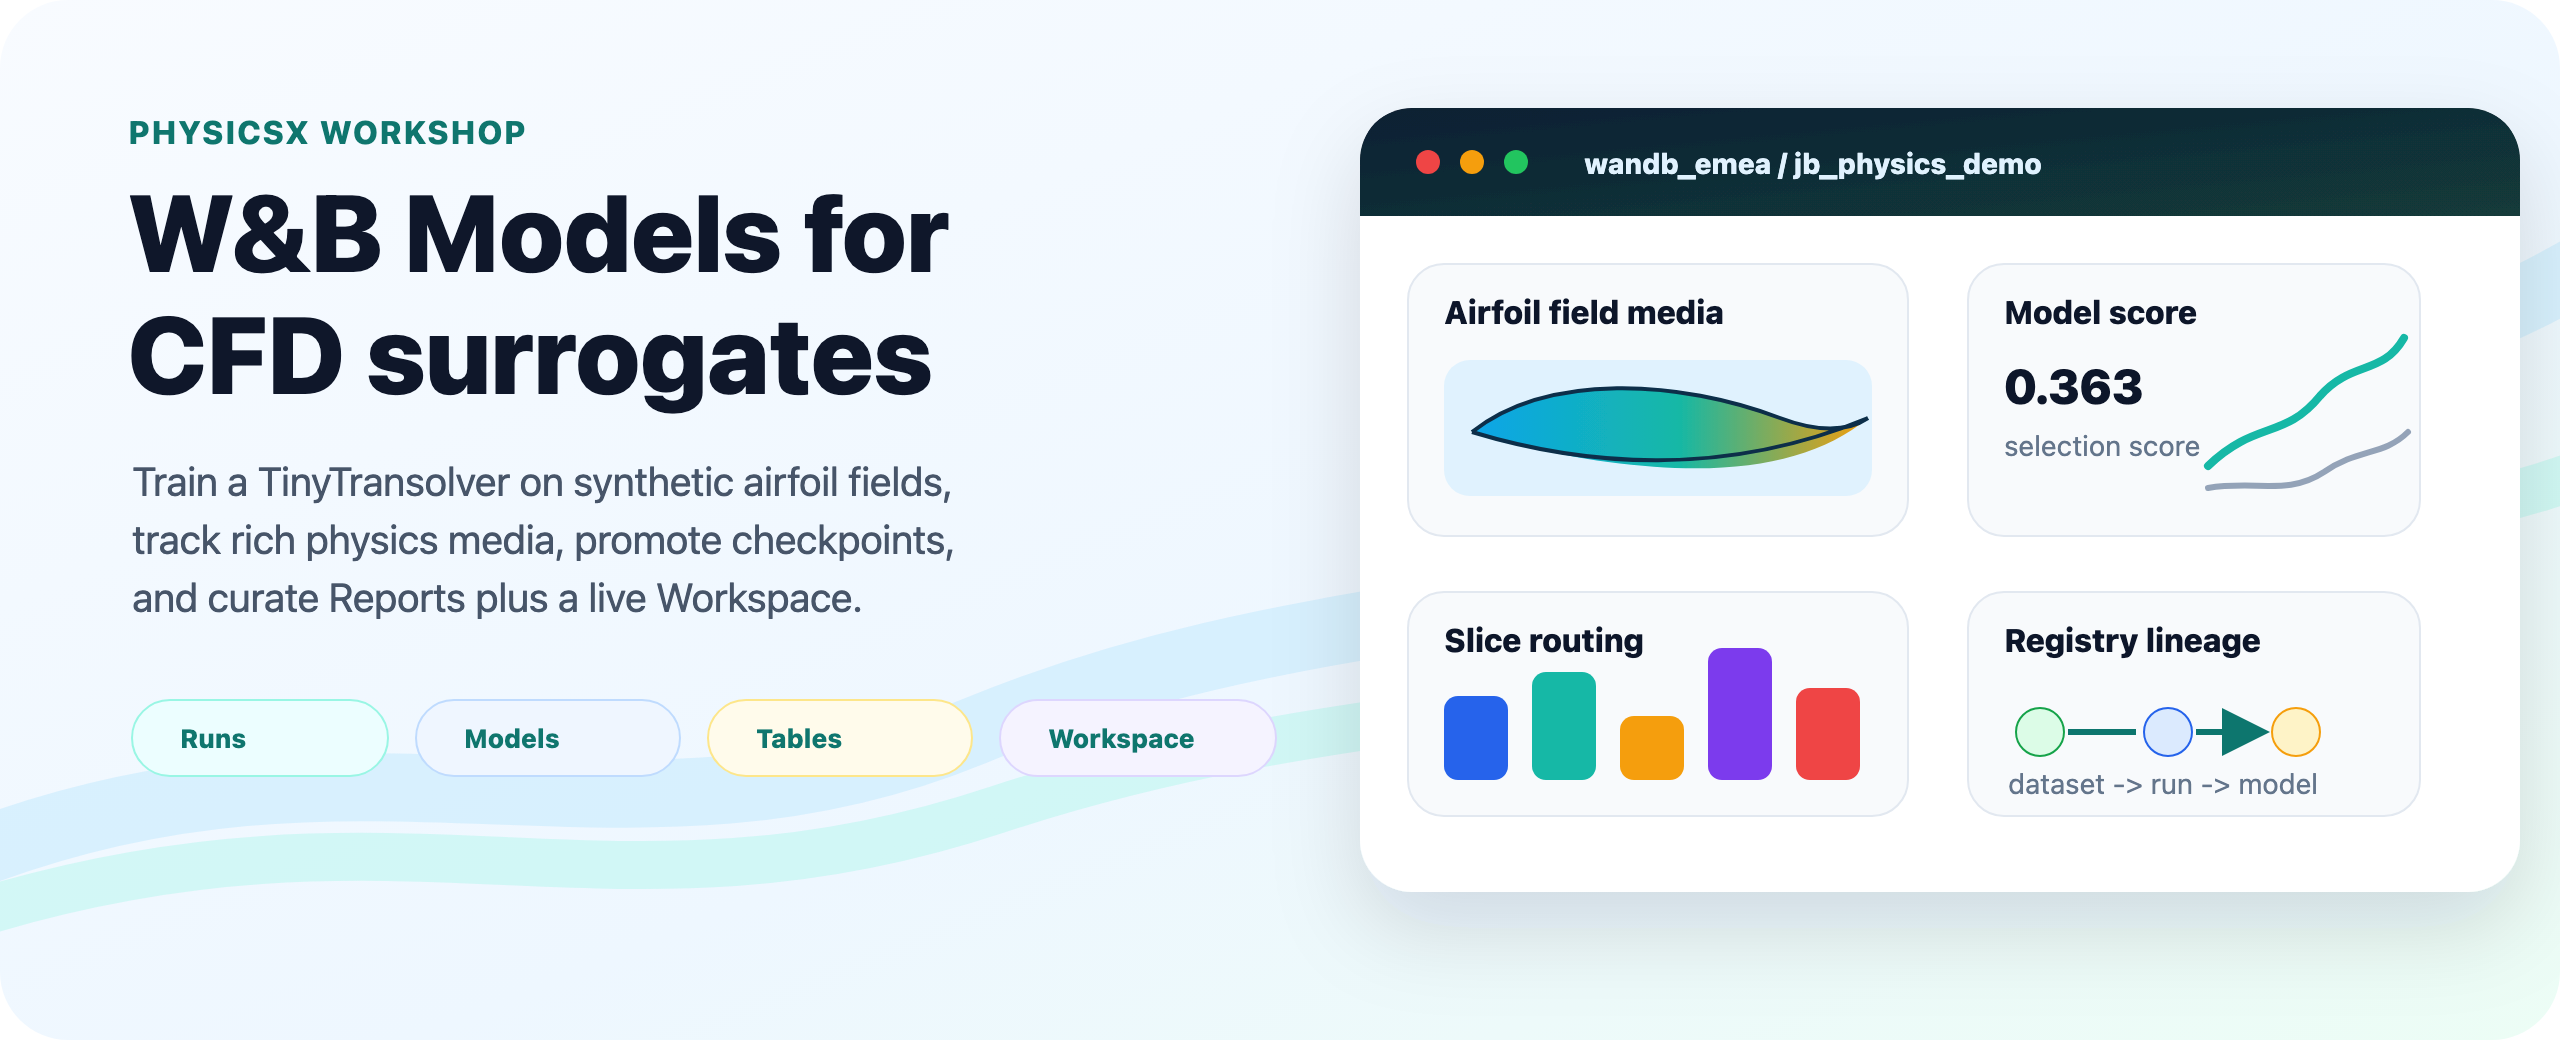
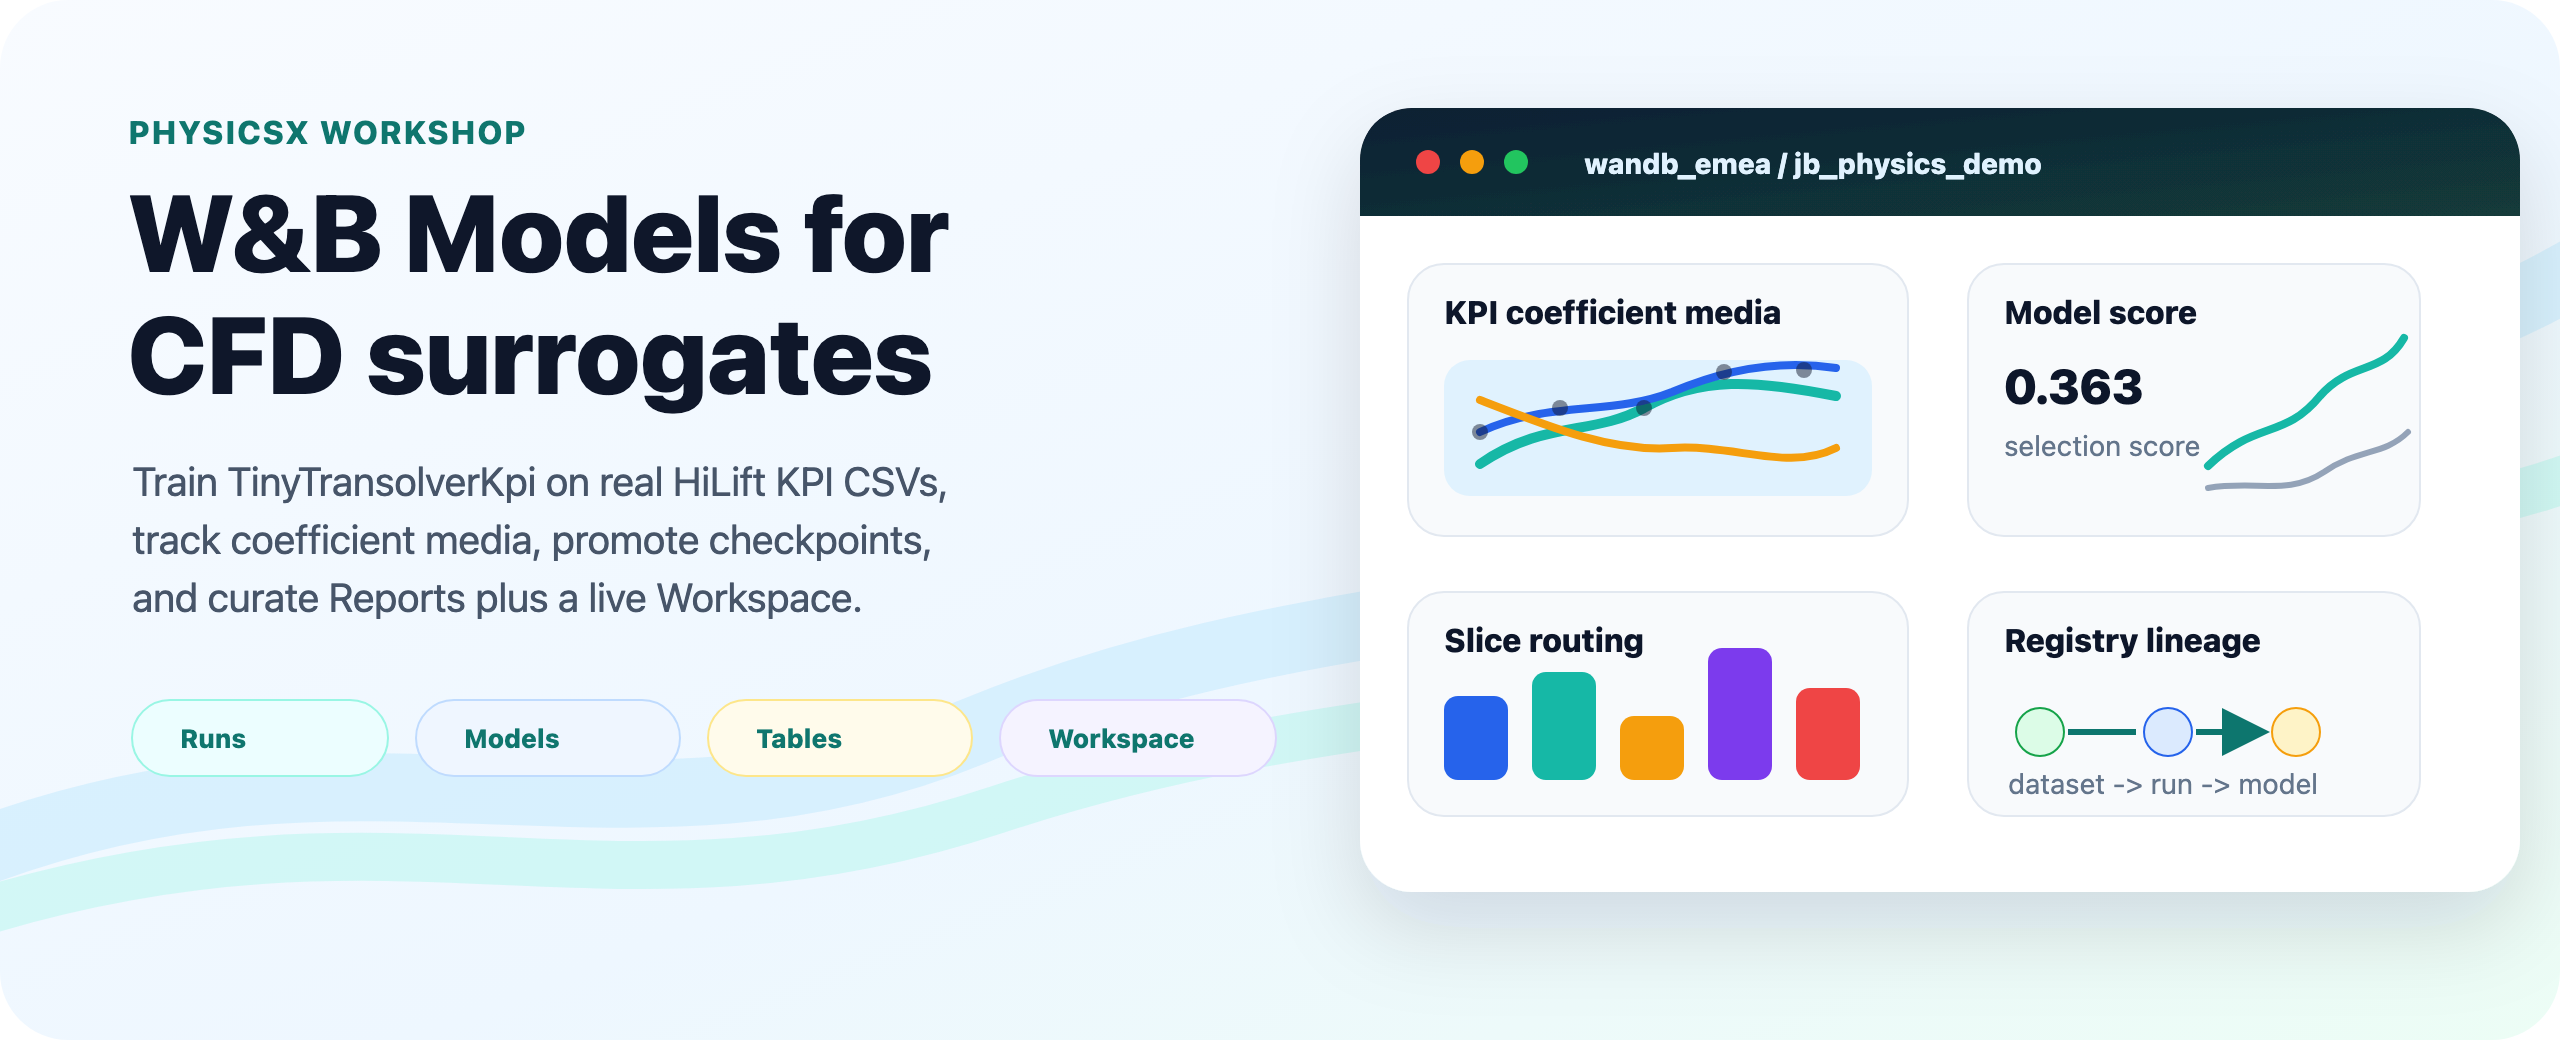
docs: align README with HiLift KPI workflow
Clarify that the workshop follows the 0D HiLiftAeroML Transolver++ KPI path
and keeps VTU point-field media optional. Refresh README imagery so the hero
and TinyTransolverKpi architecture visuals match the real high-lift coefficient
prediction use case.

Changed region(s): [[0.0938, 0.4308, 0.375, 0.5538], [0.5625, 0.3385, 0.7188, 0.4615], [0.5625, 0.2769, 0.6875, 0.3077]]

diff --git a/README.md b/README.md
@@ -10,6 +10,14 @@ The workshop use case is integrated coefficient prediction for NASA
 CRM-HL high-lift variants: eight flap/slat design variables plus angle
 of attack in, `cl`, `cd`, and `cm` out.
 
+The modeling path is adapted from the lightweight HiLiftAeroML
+Transolver++ Colab tutorials: the 0D KPI notebook's CSV merge,
+geometry-held-out split, semantic high-lift design tokens, AoA
+conditioning, and pooled coefficient prediction are the backbone. The
+point-cloud tutorial motivates the optional pressure/velocity media
+path, but this workshop keeps the large VTU workflow out of the main
+demo.
+
 **Target W&B project:** `wandb_emea/jb_physics_demo`
 **Registry entry point:** `wandb-registry-high_lift_surrogates`
 
@@ -89,16 +97,18 @@ flowchart TB
     E --> R[(W&B Models<br/>production checkpoint)]
 ```
 
-- **Real KPI model.** `TinyTransolverKpi` uses the same Physics-Attention
-  blocks on eight HiLiftAeroML design-variable tokens: inboard/outboard
-  flap deflection, flap gap, slat deflection, and slat gap. Angle of
-  attack is broadcast as a condition, and the pooled output predicts
-  `cl`, `cd`, and `cm`. Splits are grouped by `GeoID`, so validation and
-  test rows come from held-out aircraft variants rather than shuffled
-  angles from already-seen geometries. The training notebook logs
-  physical RMSE for each coefficient, drag polar media, prediction
-  tables, a pooled-token MLP baseline, and a best-checkpoint Registry
-  promotion.
+- **Real KPI model.** `TinyTransolverKpi` uses a compact in-repo
+  Physics-Attention-style slice/attend/deslice block on eight
+  HiLiftAeroML design-variable tokens: inboard/outboard flap
+  deflection, flap gap, slat deflection, and slat gap. This follows the
+  0D Transolver++ tutorial pattern, while avoiding a live clone/patch of
+  the upstream Colab model during the workshop. Angle of attack is
+  broadcast as a condition, and the pooled output predicts `cl`, `cd`,
+  and `cm`. Splits are grouped by `GeoID`, so validation and test rows
+  come from held-out aircraft variants rather than shuffled angles from
+  already-seen geometries. The training notebook logs physical RMSE for
+  each coefficient, drag polar media, prediction tables, a pooled-token
+  MLP baseline, and a best-checkpoint Registry promotion.
 - **Legacy point-field helpers.** The repo still includes a downscaled
   `TinyTransolver` and synthetic CRM-HL-style point-field generator for
   local experiments that need pressure/velocity media without
@@ -181,7 +191,7 @@ Once the root CSVs are local, run the real KPI training preflight:
 uv run python scripts/train_hilift_kpi.py --data-dir data/hiliftaeroml_subset --n-geometries 80 --epochs 80
 ```
 
-That script follows the Transolver++ tutorial pattern: merge
+That script follows the 0D KPI Transolver++ tutorial pattern: merge
 `force_mom_all.csv` with `geo_values_all.csv`, hold out entire
 geometries, encode the eight high-lift design variables as semantic
 tokens, and predict `cl`, `cd`, and `cm`. Use it as the real-data
